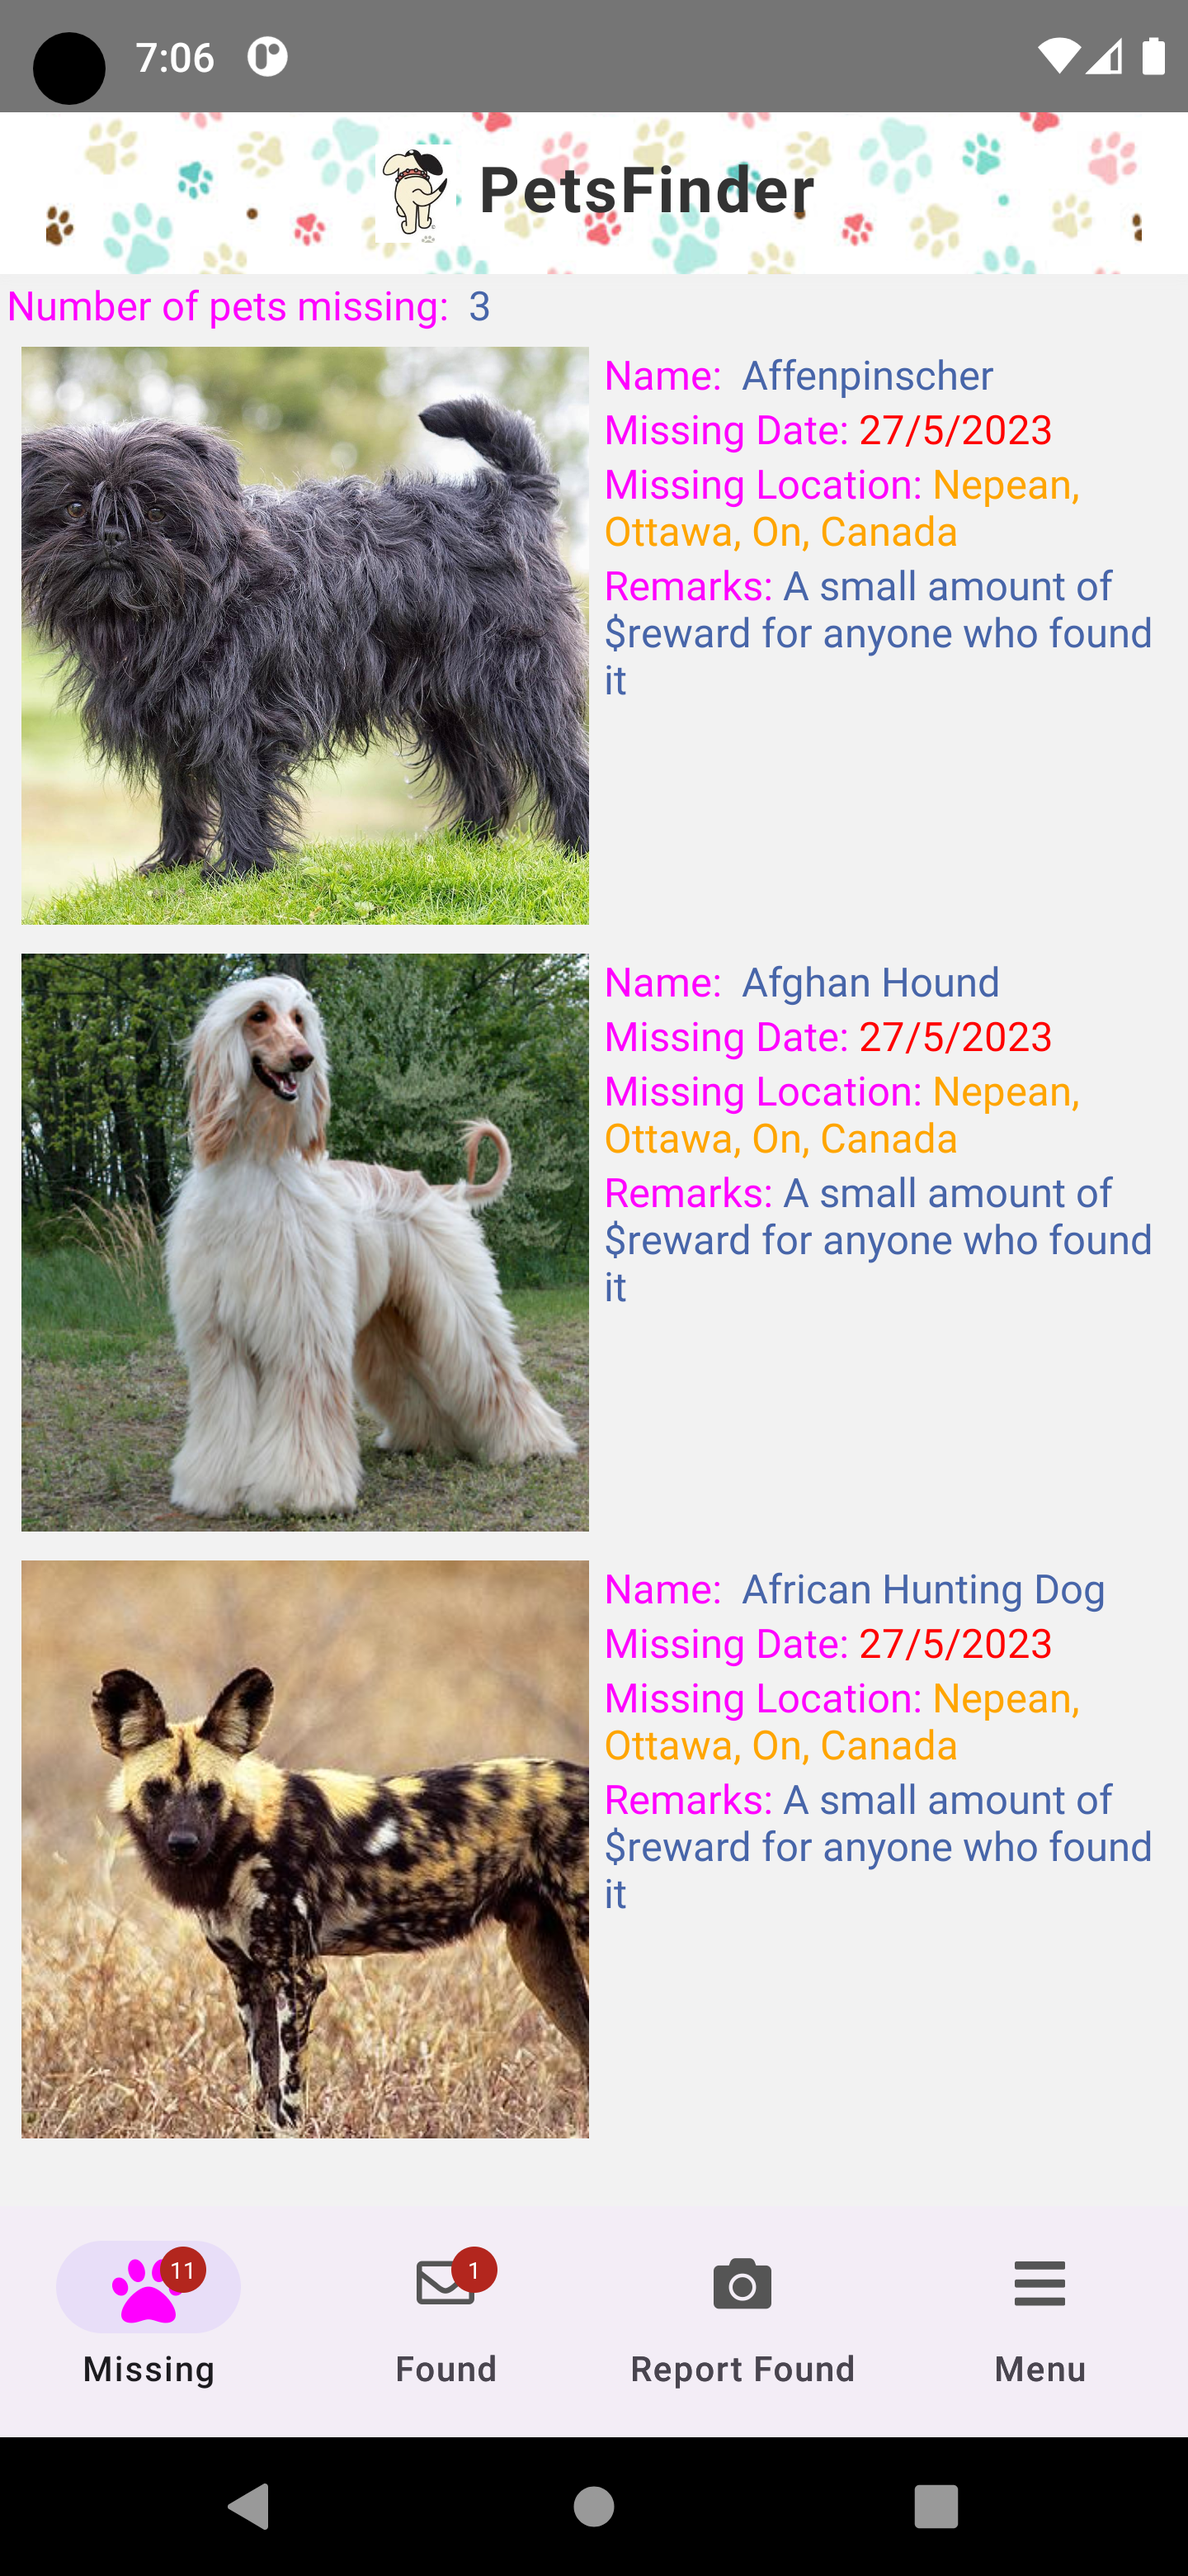
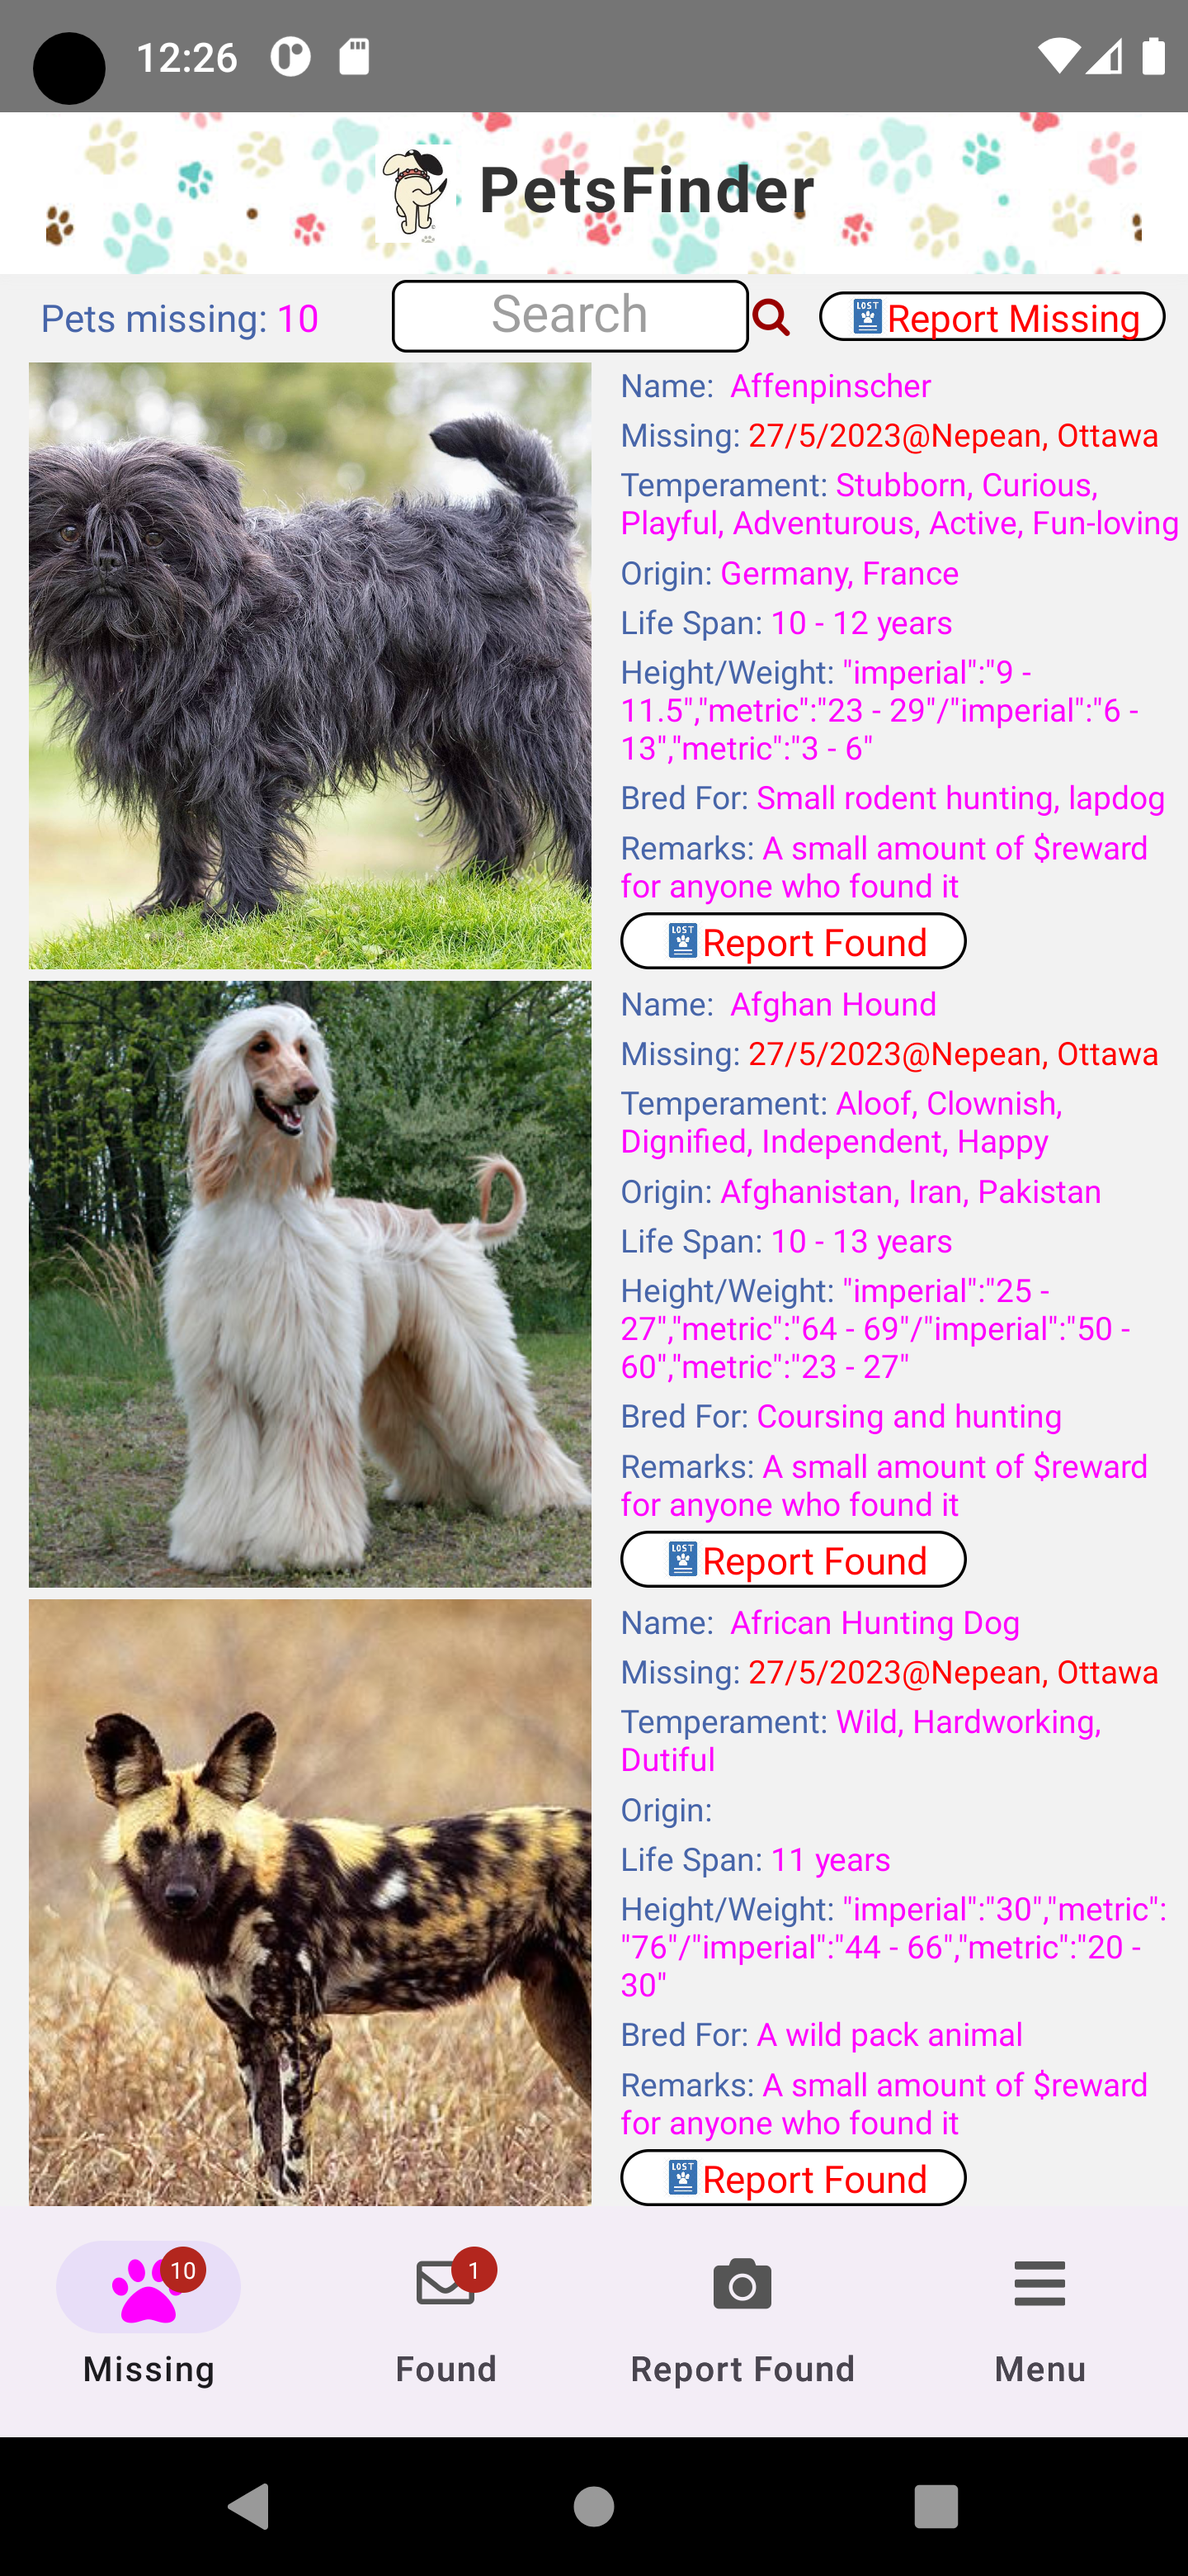
modern redux with web api for getting missing pets data

diff --git a/src/features/pets/missing-pets-api-slice.ts b/src/features/pets/missing-pets-api-slice.ts
@@ -1,0 +1,48 @@
+/**
+ * Copyright (c) Wai L.
+ *
+ * This source code is licensed under the ___ license found in the
+ * LICENSE file in the root directory of this source tree.
+ *
+ * @flow strict
+ * @created by:     Wai L
+ * @created date:   26/5/2023
+ * @modified by:    Wai L
+ * @modified date:  26/5/2023
+ */
+// moden redux
+import {createApi, fetchBaseQuery} from '@reduxjs/toolkit/query/react';
+
+const MISSING_PETS_API_KEY = 'cbfb51a2-84b6-4025-a3e2-ed8616edf311';
+
+interface Breed {
+  id: string;
+  name: string;
+  image: {
+    url: string;
+  };
+  status: string;
+  remark: string;
+}
+
+export const missingPetsApiSlice = createApi({
+  reducerPath: 'api',
+  baseQuery: fetchBaseQuery({
+    baseUrl: 'https://api.thedogapi.com/v1',
+    prepareHeaders(headers) {
+      headers.set('x-api-key', MISSING_PETS_API_KEY);
+      return headers;
+    },
+  }),
+  endpoints(builder) {
+    return {
+      fetchBreeds: builder.query<Breed[], number | void>({
+        query(limit = 10) {
+          return '/breeds?limit=' + limit; // todo ${limit} is not working here
+        },
+      }),
+    };
+  },
+});
+
+export const {useFetchBreedsQuery} = missingPetsApiSlice;

diff --git a/src/features/counter/missing-pets-counts-slice.ts b/src/features/counter/missing-pets-counts-slice.ts
@@ -1,0 +1,43 @@
+/**
+ * Copyright (c) Wai L.
+ *
+ * This source code is licensed under the ___ license found in the
+ * LICENSE file in the root directory of this source tree.
+ *
+ * @flow strict
+ * @created by:     Wai L
+ * @created date:   26/5/2023
+ * @modified by:    Wai L
+ * @modified date:  26/5/2023
+ */
+// moden redux
+import {createSlice, PayloadAction } from '@reduxjs/toolkit';
+
+interface CounterState {
+//    value: number;
+    missing: number;
+    found: number;
+}
+
+const initialState: CounterState = {
+//    value: 0,
+    missing:  10,
+    found: 10
+}
+
+const counterSlice = createSlice ({
+    name: 'counts',
+    initialState,
+    reducers :{
+        //
+        setMissing(state, action: PayloadAction<number>) {
+            state.missing = action.payload;
+        },
+        // setFound(state, action: PayloadAction<number>) {
+        //     state.found = action.payload;
+        // },
+    }
+});
+
+export const { setMissing, setFound } = counterSlice.actions;
+export default counterSlice.reducer;
